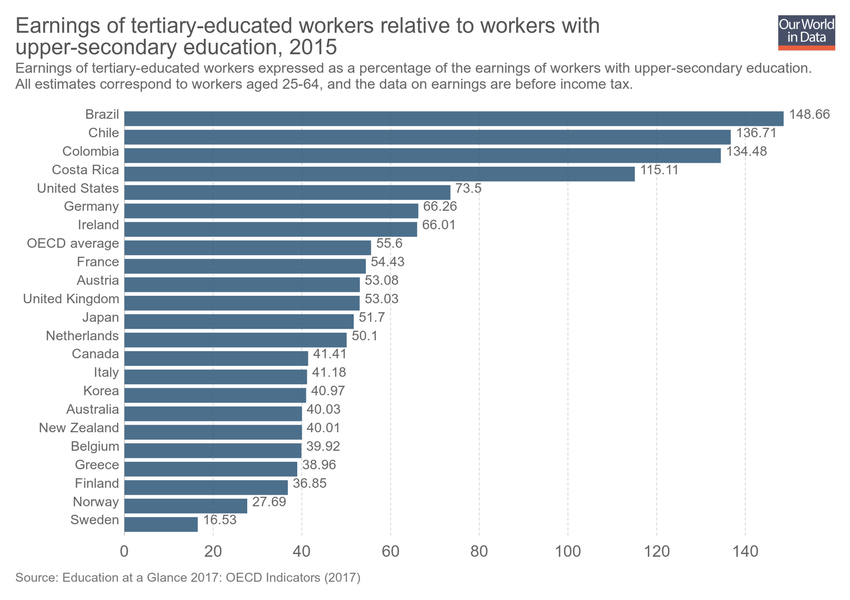
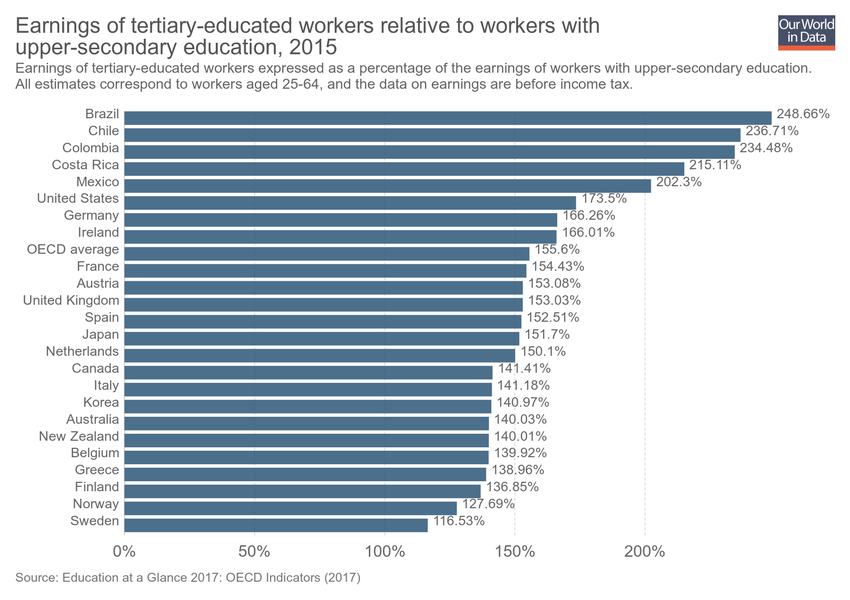
Updating chart earnings-of-tertiary-educated-workers-relative-to-workers-with-upper-secondary-education

diff --git a/grapher/earnings-of-tertiary-educated-workers-relative-to-workers-with-upper-secondary-education.html b/grapher/earnings-of-tertiary-educated-workers-relative-to-workers-with-upper-secondary-education.html
@@ -1,4 +1,4 @@
-<!doctype html><html><head><meta name="viewport" content="width=device-width, initial-scale=1" /><title>Earnings of tertiary-educated workers relative to workers with upper-secondary education - Our World in Data</title><meta name="description" content="Earnings of tertiary-educated workers expressed as a percentage of the earnings of workers with upper-secondary education. All estimates correspond to workers aged 25-64, and the data on earnings are before income tax." /><link rel="canonical" href="https://ourworldindata.org/grapher/earnings-of-tertiary-educated-workers-relative-to-workers-with-upper-secondary-education" /><meta property="fb:app_id" content="1149943818390250" /><meta property="og:url" content="https://ourworldindata.org/grapher/earnings-of-tertiary-educated-workers-relative-to-workers-with-upper-secondary-education" /><meta property="og:title" content="Earnings of tertiary-educated workers relative to workers with upper-secondary education" /><meta property="og:description" content="Earnings of tertiary-educated workers expressed as a percentage of the earnings of workers with upper-secondary education. All estimates correspond to workers aged 25-64, and the data on earnings are before income tax." /><meta property="og:image" content="https://ourworldindata.org/grapher/exports/earnings-of-tertiary-educated-workers-relative-to-workers-with-upper-secondary-education.png?v=10" /><meta property="og:image:width" content="850" /><meta property="og:image:height" content="600" /><meta property="og:site_name" content="Our World in Data" /><meta name="twitter:card" content="summary_large_image" /><meta name="twitter:site" content="@OurWorldInData" /><meta name="twitter:creator" content="@OurWorldInData" /><meta name="twitter:title" content="Earnings of tertiary-educated workers relative to workers with upper-secondary education" /><meta name="twitter:description" content="Earnings of tertiary-educated workers expressed as a percentage of the earnings of workers with upper-secondary education. All estimates correspond to workers aged 25-64, and the data on earnings are before income tax." /><meta name="twitter:image" content="https://ourworldindata.org/grapher/exports/earnings-of-tertiary-educated-workers-relative-to-workers-with-upper-secondary-education.png?v=10" /><style>
+<!doctype html><html><head><meta name="viewport" content="width=device-width, initial-scale=1" /><title>Earnings of tertiary-educated workers relative to workers with upper-secondary education - Our World in Data</title><meta name="description" content="Earnings of tertiary-educated workers expressed as a percentage of the earnings of workers with upper-secondary education. All estimates correspond to workers aged 25-64, and the data on earnings are before income tax." /><link rel="canonical" href="https://ourworldindata.org/grapher/earnings-of-tertiary-educated-workers-relative-to-workers-with-upper-secondary-education" /><meta property="fb:app_id" content="1149943818390250" /><meta property="og:url" content="https://ourworldindata.org/grapher/earnings-of-tertiary-educated-workers-relative-to-workers-with-upper-secondary-education" /><meta property="og:title" content="Earnings of tertiary-educated workers relative to workers with upper-secondary education" /><meta property="og:description" content="Earnings of tertiary-educated workers expressed as a percentage of the earnings of workers with upper-secondary education. All estimates correspond to workers aged 25-64, and the data on earnings are before income tax." /><meta property="og:image" content="https://ourworldindata.org/grapher/exports/earnings-of-tertiary-educated-workers-relative-to-workers-with-upper-secondary-education.png?v=12" /><meta property="og:image:width" content="850" /><meta property="og:image:height" content="600" /><meta property="og:site_name" content="Our World in Data" /><meta name="twitter:card" content="summary_large_image" /><meta name="twitter:site" content="@OurWorldInData" /><meta name="twitter:creator" content="@OurWorldInData" /><meta name="twitter:title" content="Earnings of tertiary-educated workers relative to workers with upper-secondary education" /><meta name="twitter:description" content="Earnings of tertiary-educated workers expressed as a percentage of the earnings of workers with upper-secondary education. All estimates correspond to workers aged 25-64, and the data on earnings are before income tax." /><meta name="twitter:image" content="https://ourworldindata.org/grapher/exports/earnings-of-tertiary-educated-workers-relative-to-workers-with-upper-secondary-education.png?v=12" /><style>
         html, body {
             height: 100%;
             margin: 0;
@@ -20,8 +20,8 @@
         }
     </style><noscript><style>
                     figure { display: none !important; }
-                </style></noscript><link rel="stylesheet" href="https://ourworldindata.org/grapher/assets/commons.bundle.b9f051796dbbbb7e5139.css" /><link rel="preload" href="/grapher/data/variables/97781.json?v=10" as="fetch" crossorigin /></head><body class="singleChart"><figure data-grapher-src="/grapher/earnings-of-tertiary-educated-workers-relative-to-workers-with-upper-secondary-education"></figure><noscript id="fallback"><img src="/grapher/exports/earnings-of-tertiary-educated-workers-relative-to-workers-with-upper-secondary-education.svg" /><p>Interactive visualization requires JavaScript</p></noscript><script src="https://cdn.polyfill.io/v2/polyfill.min.js?features=es6,fetch"></script><script src="https://ourworldindata.org/grapher/assets/commons.bundle.b9f051796dbbbb7e5139.js"></script><script src="https://ourworldindata.org/grapher/assets/charts.bundle.b9f051796dbbbb7e5139.js"></script><script>
-        var jsonConfig = {"id":2952,"map":{"projection":"World","colorSchemeLabels":[],"colorSchemeValues":[],"customNumericColors":[],"customCategoryColors":{},"customCategoryLabels":{},"customHiddenCategories":{}},"tab":"chart","slug":"earnings-of-tertiary-educated-workers-relative-to-workers-with-upper-secondary-education","type":"DiscreteBar","title":"Earnings of tertiary-educated workers relative to workers with upper-secondary education","xAxis":{"scaleType":"linear"},"yAxis":{"min":0,"scaleType":"linear"},"version":10,"subtitle":"Earnings of tertiary-educated workers expressed as a percentage of the earnings of workers with upper-secondary education. All estimates correspond to workers aged 25-64, and the data on earnings are before income tax.","hasMapTab":false,"stackMode":"absolute","dimensions":[{"display":{},"property":"y","variableId":97781}],"hasChartTab":true,"isPublished":true,"selectedData":[{"index":0,"entityId":10},{"index":0,"entityId":8},{"index":0,"entityId":166},{"index":0,"entityId":3},{"index":0,"entityId":149},{"index":0,"entityId":14},{"index":0,"entityId":2},{"index":0,"entityId":23},{"index":0,"entityId":24},{"index":0,"entityId":172},{"index":0,"entityId":5},{"index":0,"entityId":106},{"index":0,"entityId":102},{"index":0,"entityId":3783},{"index":0,"entityId":31416},{"index":0,"entityId":44},{"index":0,"entityId":6},{"index":0,"entityId":4},{"index":0,"entityId":155},{"index":0,"entityId":1},{"index":0,"entityId":13},{"index":0,"entityId":37},{"index":0,"entityId":170}],"addCountryMode":"add-country"};
+                </style></noscript><link rel="stylesheet" href="https://ourworldindata.org/grapher/assets/commons.bundle.b9f051796dbbbb7e5139.css" /><link rel="preload" href="/grapher/data/variables/97781.json?v=12" as="fetch" crossorigin /></head><body class="singleChart"><figure data-grapher-src="/grapher/earnings-of-tertiary-educated-workers-relative-to-workers-with-upper-secondary-education"></figure><noscript id="fallback"><img src="/grapher/exports/earnings-of-tertiary-educated-workers-relative-to-workers-with-upper-secondary-education.svg" /><p>Interactive visualization requires JavaScript</p></noscript><script src="https://cdn.polyfill.io/v2/polyfill.min.js?features=es6,fetch"></script><script src="https://ourworldindata.org/grapher/assets/commons.bundle.b9f051796dbbbb7e5139.js"></script><script src="https://ourworldindata.org/grapher/assets/charts.bundle.b9f051796dbbbb7e5139.js"></script><script>
+        var jsonConfig = {"id":2952,"map":{"projection":"World","colorSchemeLabels":[],"colorSchemeValues":[],"customNumericColors":[],"customCategoryColors":{},"customCategoryLabels":{},"customHiddenCategories":{}},"tab":"chart","slug":"earnings-of-tertiary-educated-workers-relative-to-workers-with-upper-secondary-education","type":"DiscreteBar","title":"Earnings of tertiary-educated workers relative to workers with upper-secondary education","xAxis":{"scaleType":"linear"},"yAxis":{"min":0,"scaleType":"linear"},"version":12,"subtitle":"Earnings of tertiary-educated workers expressed as a percentage of the earnings of workers with upper-secondary education. All estimates correspond to workers aged 25-64, and the data on earnings are before income tax.","hasMapTab":false,"stackMode":"absolute","dimensions":[{"display":{},"property":"y","variableId":97781}],"hasChartTab":true,"isPublished":true,"selectedData":[{"index":0,"entityId":10},{"index":0,"entityId":8},{"index":0,"entityId":166},{"index":0,"entityId":3},{"index":0,"entityId":149},{"index":0,"entityId":14},{"index":0,"entityId":2},{"index":0,"entityId":23},{"index":0,"entityId":24},{"index":0,"entityId":172},{"index":0,"entityId":5},{"index":0,"entityId":106},{"index":0,"entityId":102},{"index":0,"entityId":3783},{"index":0,"entityId":31416},{"index":0,"entityId":44},{"index":0,"entityId":6},{"index":0,"entityId":4},{"index":0,"entityId":155},{"index":0,"entityId":1},{"index":0,"entityId":13},{"index":0,"entityId":37},{"index":0,"entityId":170},{"index":0,"entityId":113},{"index":0,"entityId":9}],"addCountryMode":"add-country"};
         var figure = document.getElementsByTagName("figure")[0];
         try {
             window.App = {};
